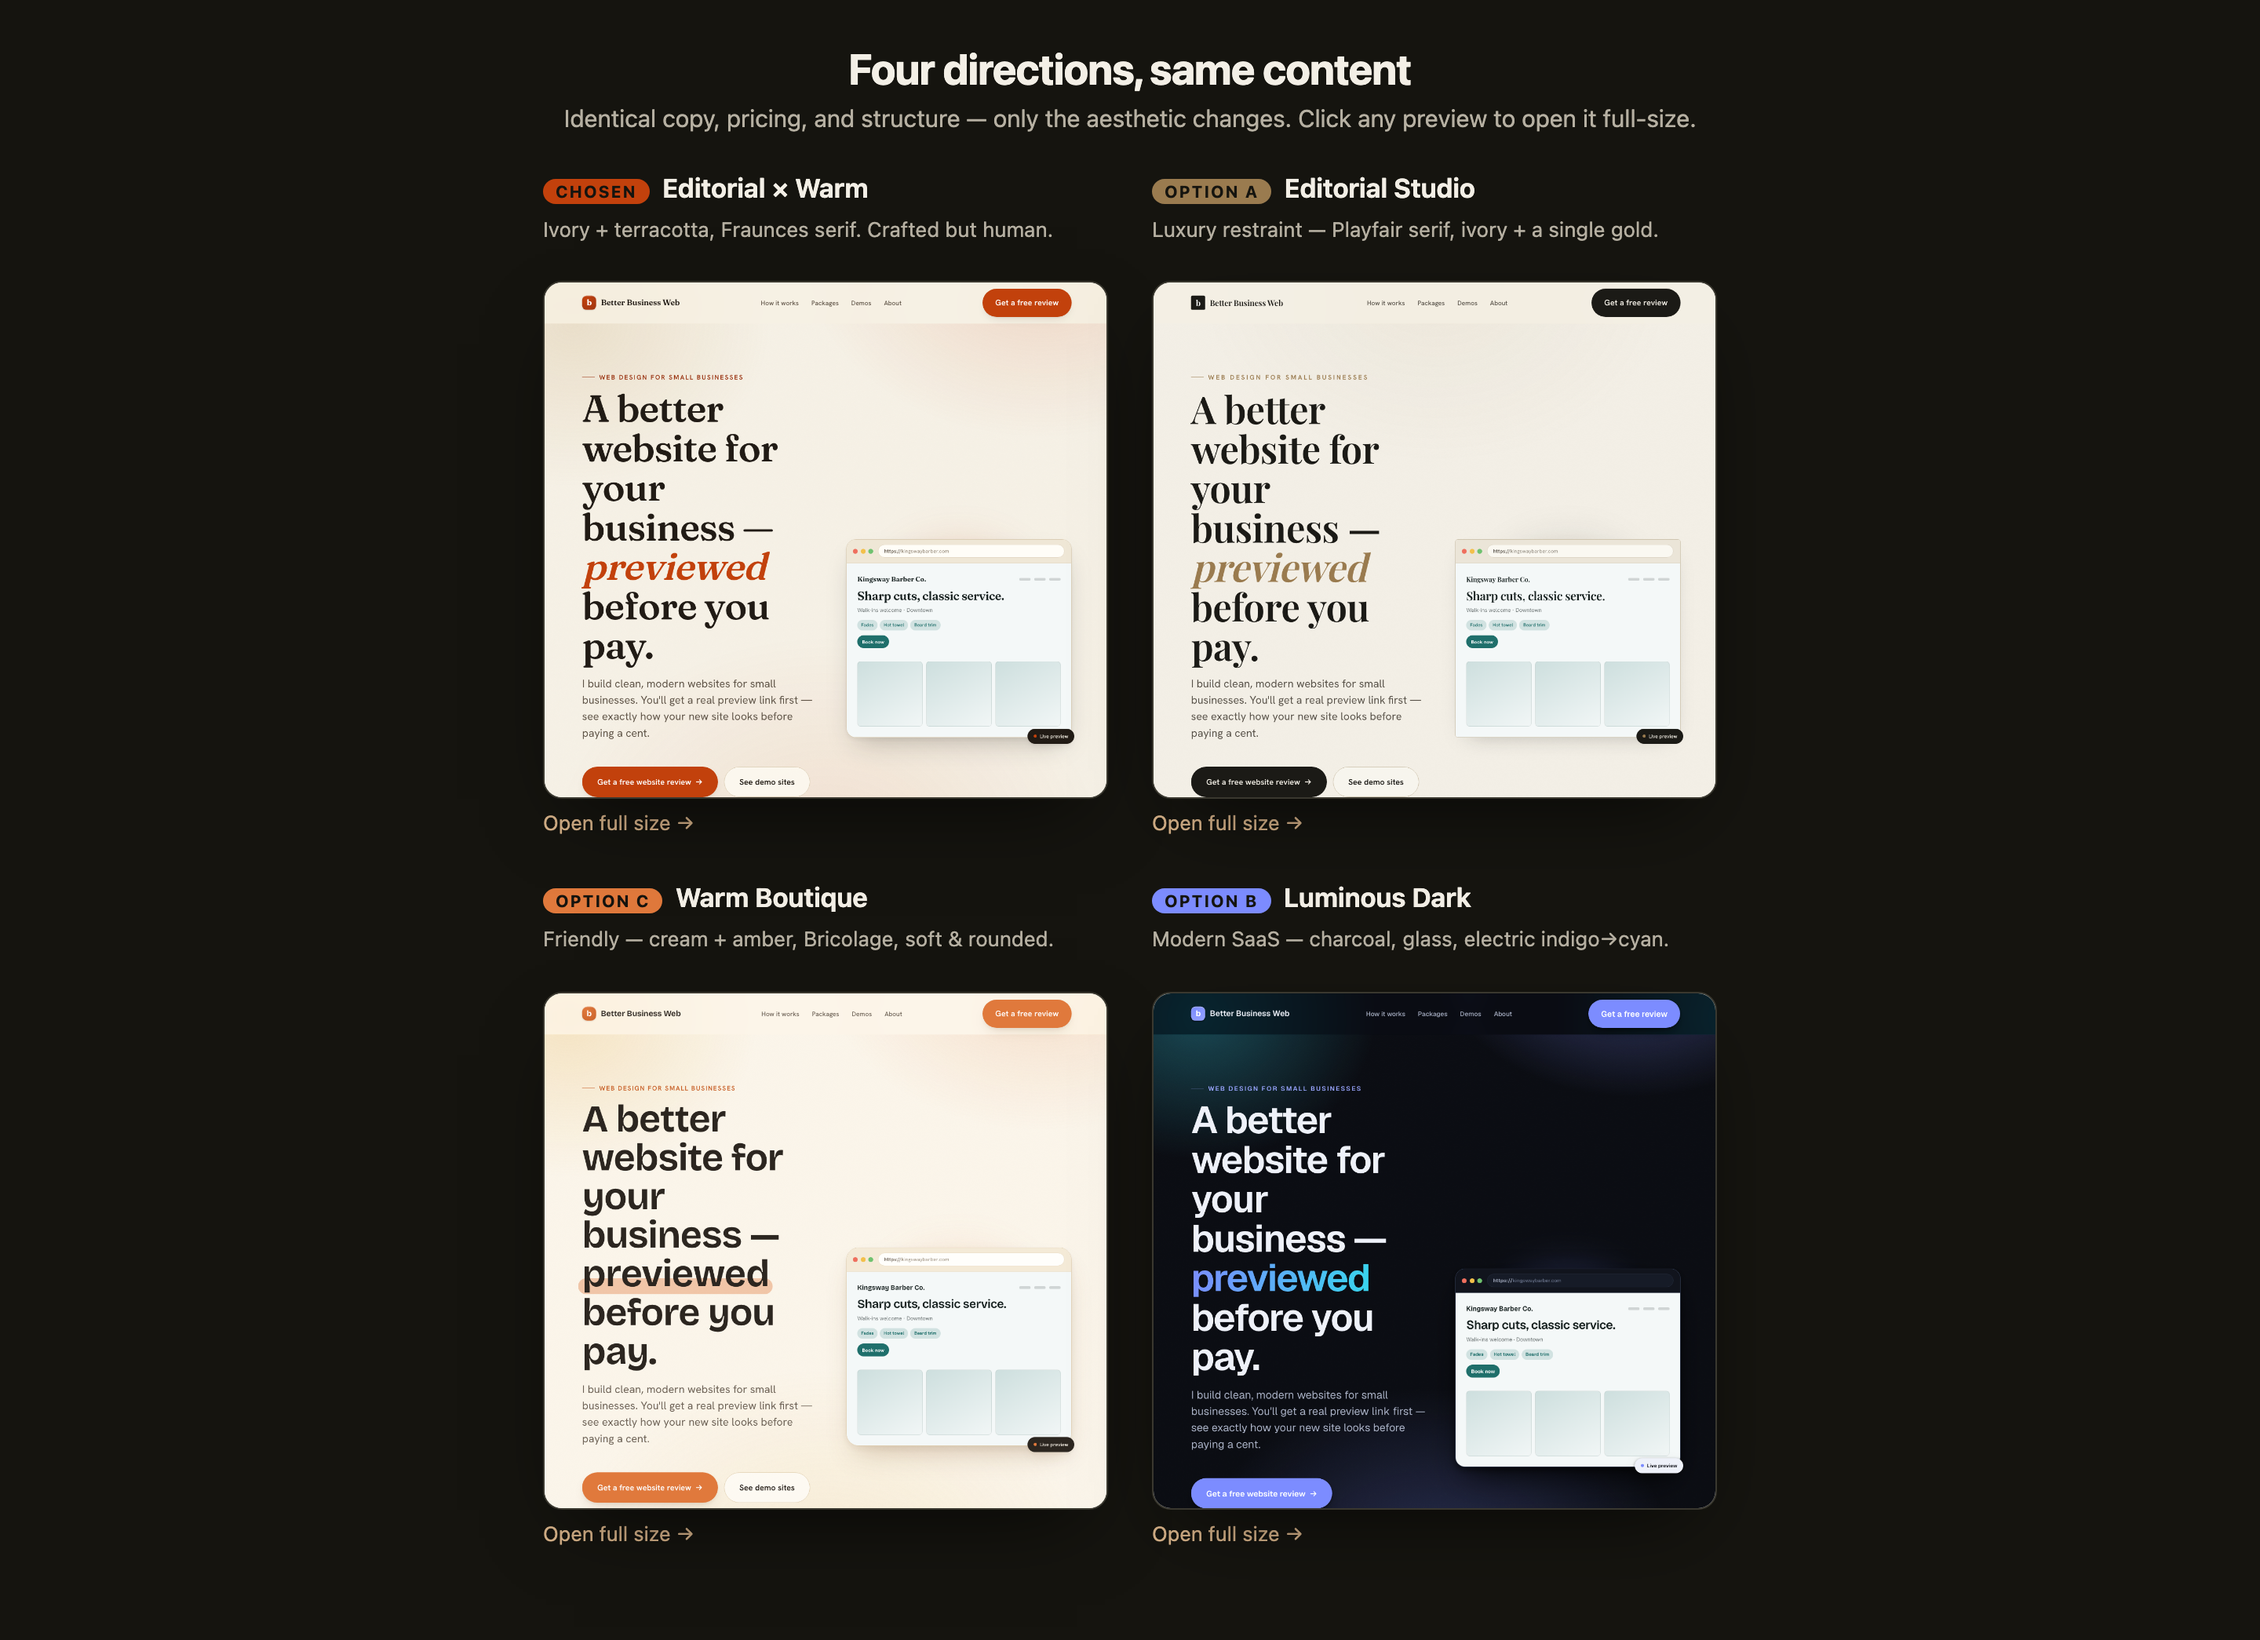
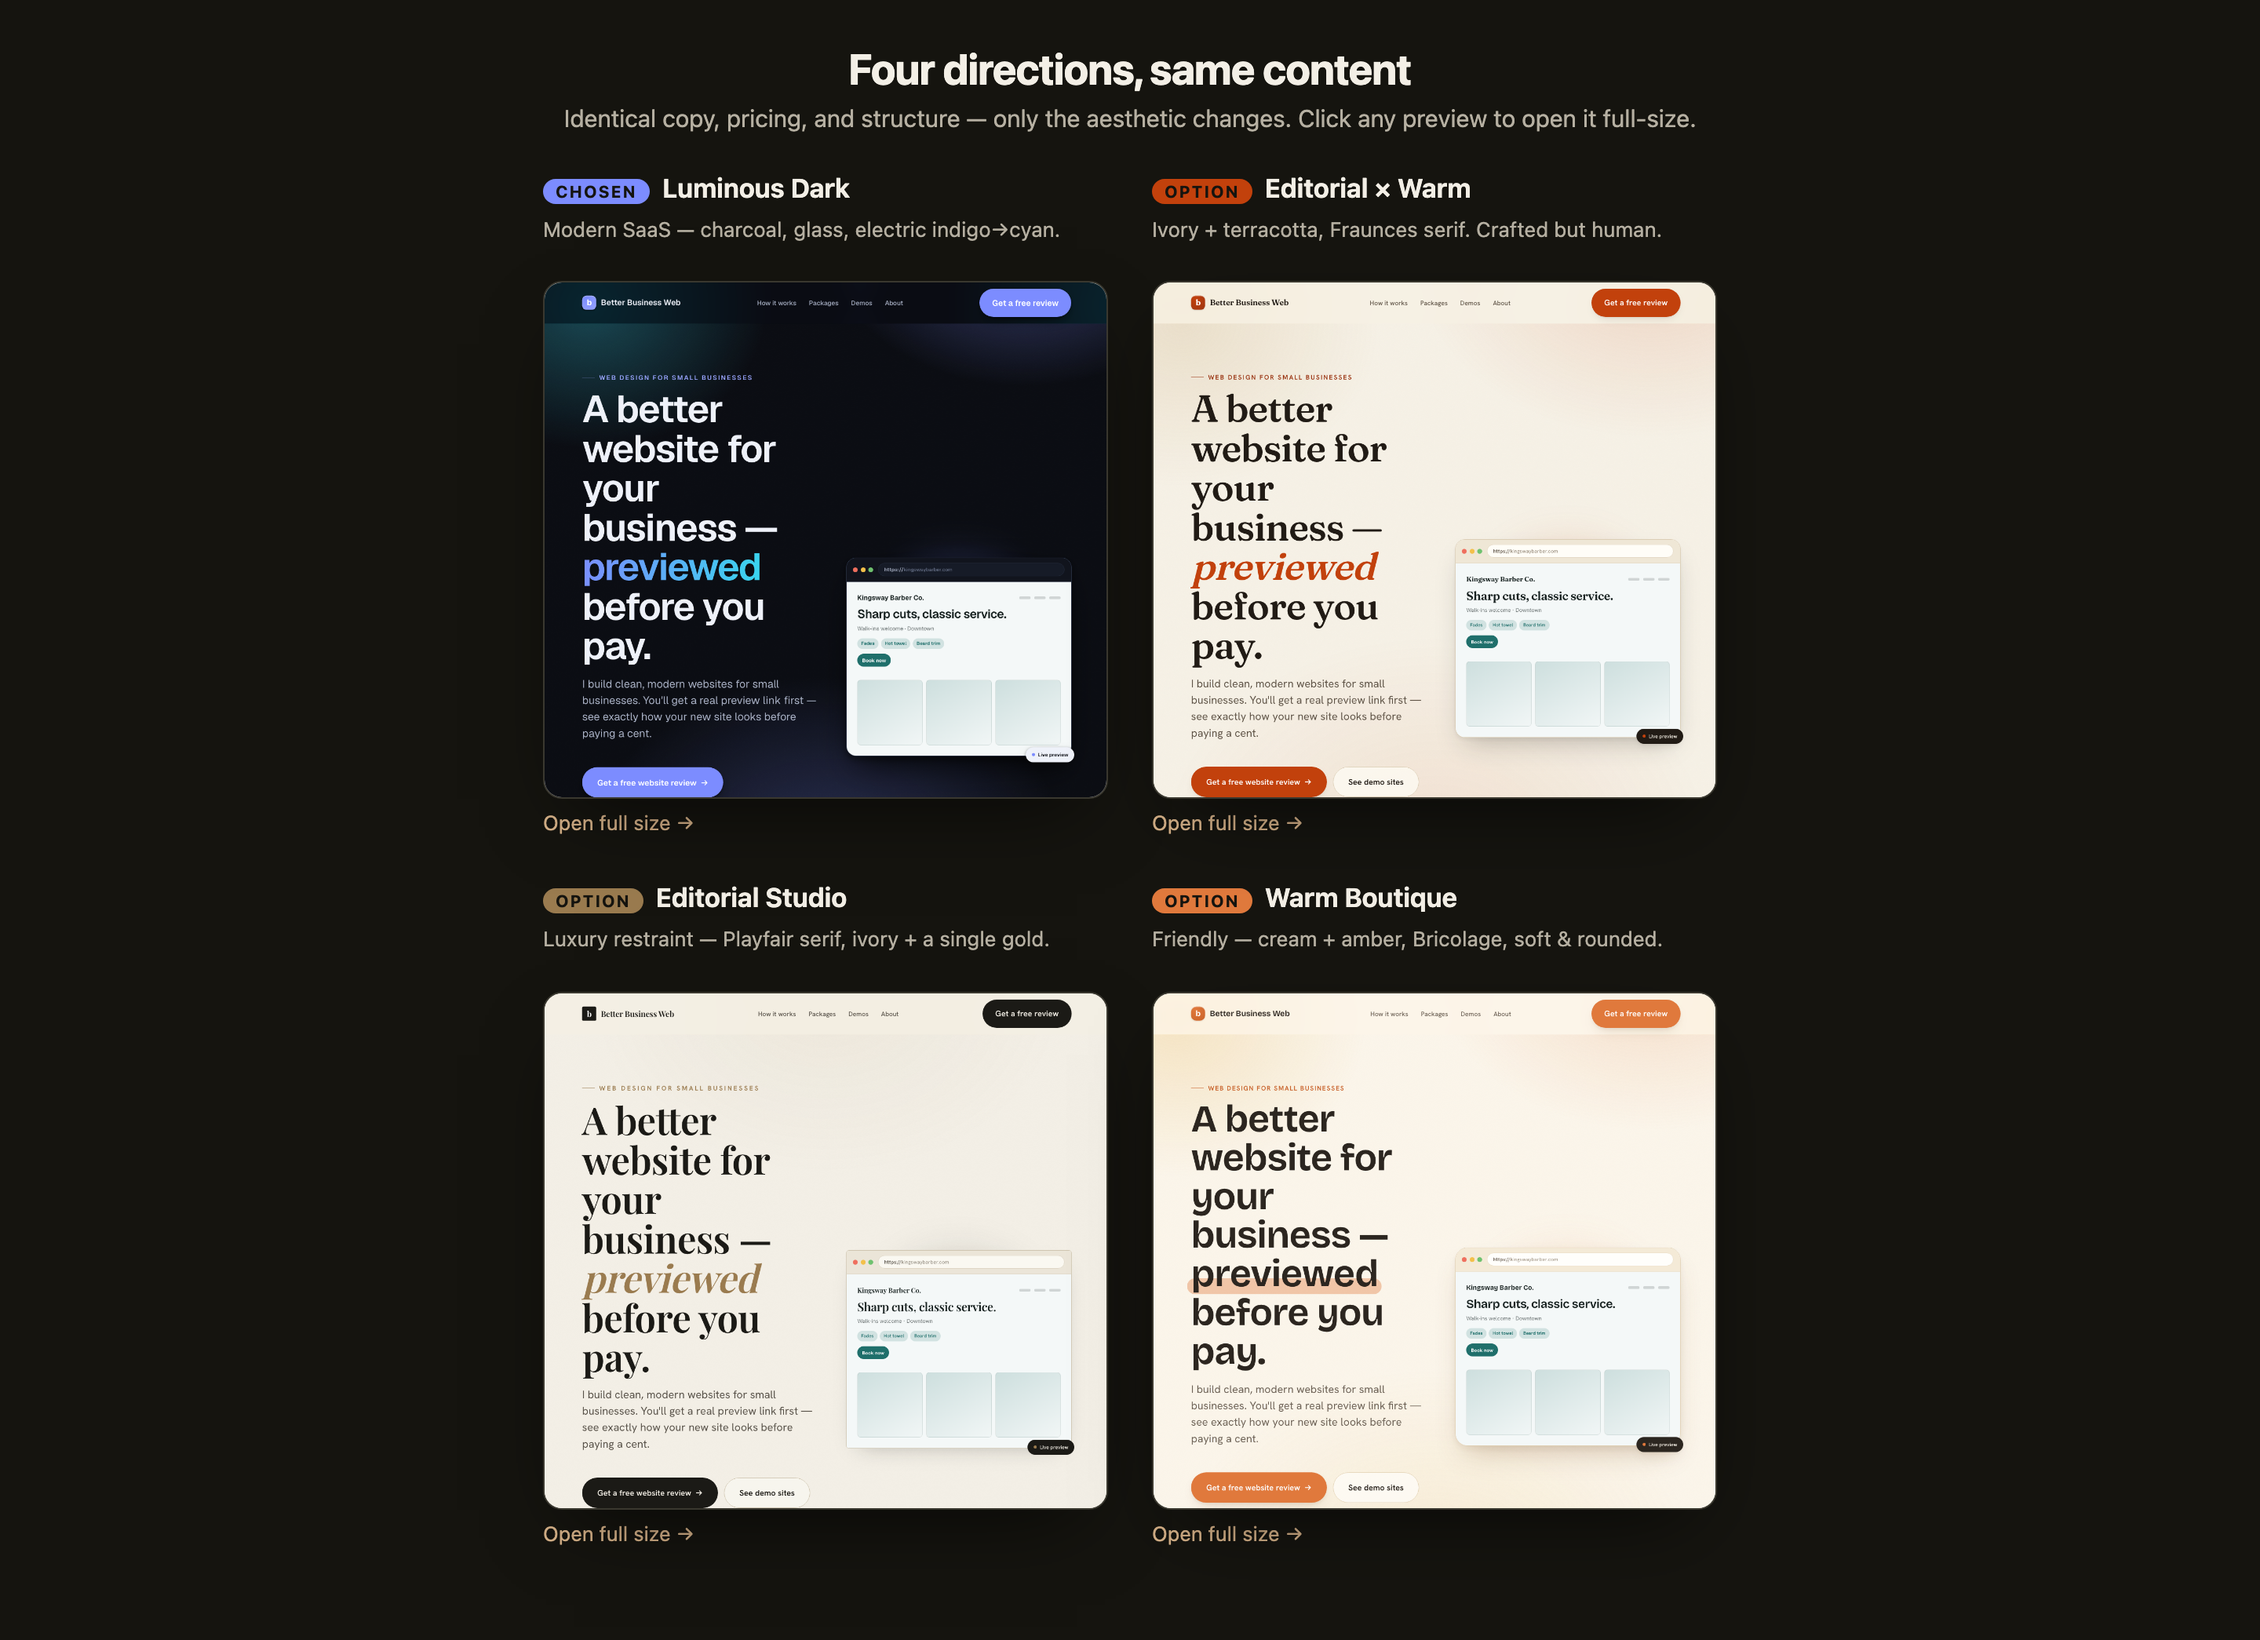
feat(bbw): promote Luminous Dark to the live site + deploy to Netlify
Make Luminous Dark the canonical / (was Editorial × Warm); archive the other
three directions under /compare (now incl. editorial-warm). Update the compare
gallery + re-shoot all screenshots.

Deployed to production: https://better-business-web.netlify.app (file-digest
NetlifyDeployTarget, operator-approved). Add scripts/web/deploy_bbw.py recording
the deploy. Known gap (todo 071): the file-digest deploy does not trigger Netlify
form detection — form posts but submissions aren't captured until the site is
git-linked for a Netlify build or given a function handler.

diff --git a/scripts/web/deploy_bbw.py b/scripts/web/deploy_bbw.py
@@ -1,0 +1,39 @@
+"""One-off: deploy the Better Business Web funnel site to Netlify (production).
+
+Operator-approved production deploy of products/better-business-web/site/dist.
+Runs the first-party launch checklist first, then publishes via the file-digest
+Netlify target. Run from repo root: `python scripts/web/deploy_bbw.py`.
+"""
+
+from __future__ import annotations
+
+import sys
+from pathlib import Path
+
+REPO = Path(__file__).resolve().parents[2]
+sys.path.insert(0, str(REPO))
+
+from packages.agency.launch import run_launch_checklist  # noqa: E402
+from packages.web.deploy import NetlifyDeployTarget  # noqa: E402
+
+DIST = REPO / "products" / "better-business-web" / "site" / "dist"
+
+
+def main() -> None:
+    print("== launch checklist (first-party, operator-approved) ==")
+    report = run_launch_checklist(DIST, first_party=True, deploy_approved=True)
+    for it in report.items:
+        print(f"  [{'PASS' if it.passed else 'FAIL'}] {it.name}: {it.detail}")
+    print("  ready:", report.ready)
+
+    print("\n== netlify deploy ==")
+    target = NetlifyDeployTarget()
+    site = target.ensure_site("better-business-web")
+    print(f"  site: id={site.site_id} name={site.name!r} url={site.url}")
+    result = target.deploy(site, DIST, production=True)
+    print(f"  deploy: id={result.deploy_id} state={result.state}")
+    print(f"\nLIVE URL: {result.url or site.url}")
+
+
+if __name__ == "__main__":
+    main()

diff --git a/docs/products/better-business-web/LANDING_PAGE_PLAN.md b/docs/products/better-business-web/LANDING_PAGE_PLAN.md
@@ -164,14 +164,28 @@ Reuse the existing design-system CSS vars; add focus states + contrast checks on
 themed cards (finding 7, a11y). Because Astro builds the site, the web gate
 validates the *built* `dist/` rather than a Python partial.
 
-**Art direction (decided 2026-06-02): "Editorial × warm."** The site is the
-studio's portfolio, so it's built to look hand-crafted, not templated: warm ivory
-canvas, Fraunces serif display + Hanken Grotesk body (self-hosted via Fontsource),
-a single terracotta accent, grain texture + layered warm light, and a
-rich-but-tasteful motion layer (orchestrated load reveals, scroll-triggered fades,
-price count-up, magnetic CTAs, hover tilt, parallax glow — all `prefers-reduced-motion`
-safe). Signature hero feature: a **live browser-frame device mockup** that
-auto-cycles through genre mini-sites, proving "a real preview before you pay."
+**Art direction (final, 2026-06-02): "Luminous Dark."** Four directions were
+designed and compared side by side (screenshots in
+[`docs/products/better-business-web/screenshots/`](../../products/better-business-web/screenshots);
+gallery component at `site/src/pages/compare/`). The operator chose **Luminous
+Dark**: deep charcoal canvas, electric indigo→cyan accent (the gradient
+"previewed"), glassmorphism, Geist type, layered glow. The other three (Editorial
+× Warm, Editorial Studio, Warm Boutique) are archived under `/compare`. All share
+one `LandingBody` component (identical content; theme = swappable CSS + fonts) and
+a rich-but-tasteful, reduced-motion-safe motion layer (orchestrated load reveals,
+scroll fades, price count-up, magnetic CTAs, hover tilt, parallax glow). Signature
+hero feature: a **live browser-frame device mockup** that auto-cycles through
+genre mini-sites, proving "a real preview before you pay."
+
+**Deploy status (2026-06-02):** live (production) at
+**https://better-business-web.netlify.app** via the file-digest target
+(`NetlifyDeployTarget`, `production=True`, operator-approved). Launch checklist is
+green except a non-blocking SEO sub-score (62 — add canonical/h1/structured meta)
+and the contact form: **Netlify did not detect the form** because the file-digest
+API deploy skips Netlify's form-detection step. Resolve by git-linking the site so
+Netlify *builds* it (honors §4 — turns on native form detection) or adding a
+Netlify Function form handler. Until then the form posts to `/thanks/` but
+submissions are not captured (todo 071 / 068).
 
 ## 6. Portfolio integration — first-party `/work/<slug>` pages (review finding 5)
 

diff --git a/todos/071-pending-p2-netlify-form-detection-no-build-fallback.md b/todos/071-pending-p2-netlify-form-detection-no-build-fallback.md
@@ -75,3 +75,15 @@ Operator chose to let Astro build the BBW site (plan §4 decision update), so
 native Netlify form detection is the supported happy path — the no-build↔detection
 tension is gone. Still verify on a real deploy before launch (keep open until the
 first deploy confirms the form is detected).
+
+### 2026-06-02 - CONFIRMED on first deploy: form NOT detected
+Deployed the site to production via `NetlifyDeployTarget` (file-digest API deploy,
+not a Netlify build). `GET /sites/{id}/forms` returns `[]` — Netlify's
+form-detection postprocessing does not run for file-digest API deploys, even with
+the static `form-name` hidden input present. The site is live and the form posts
+to `/thanks/`, but submissions are not captured. **Fix:** git-link the repo to
+Netlify so it runs `astro build` (base dir `products/better-business-web/site`) —
+that triggers native detection — OR add a Netlify Function POST handler. The
+`deploy_bbw.py` file-digest path is fine for the static pages but cannot enable
+Forms. Still open; P2 → effectively P1 for launch since the form is the funnel's
+only conversion point.
